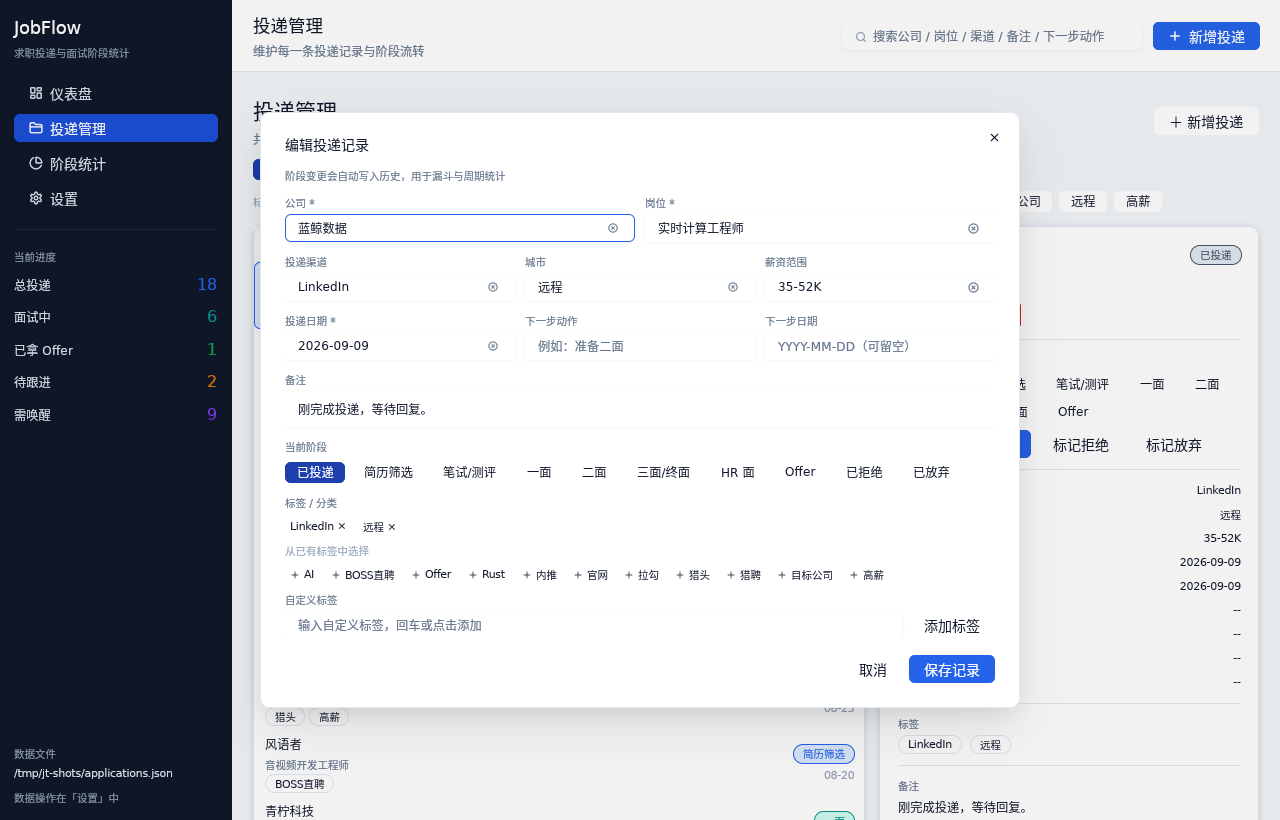
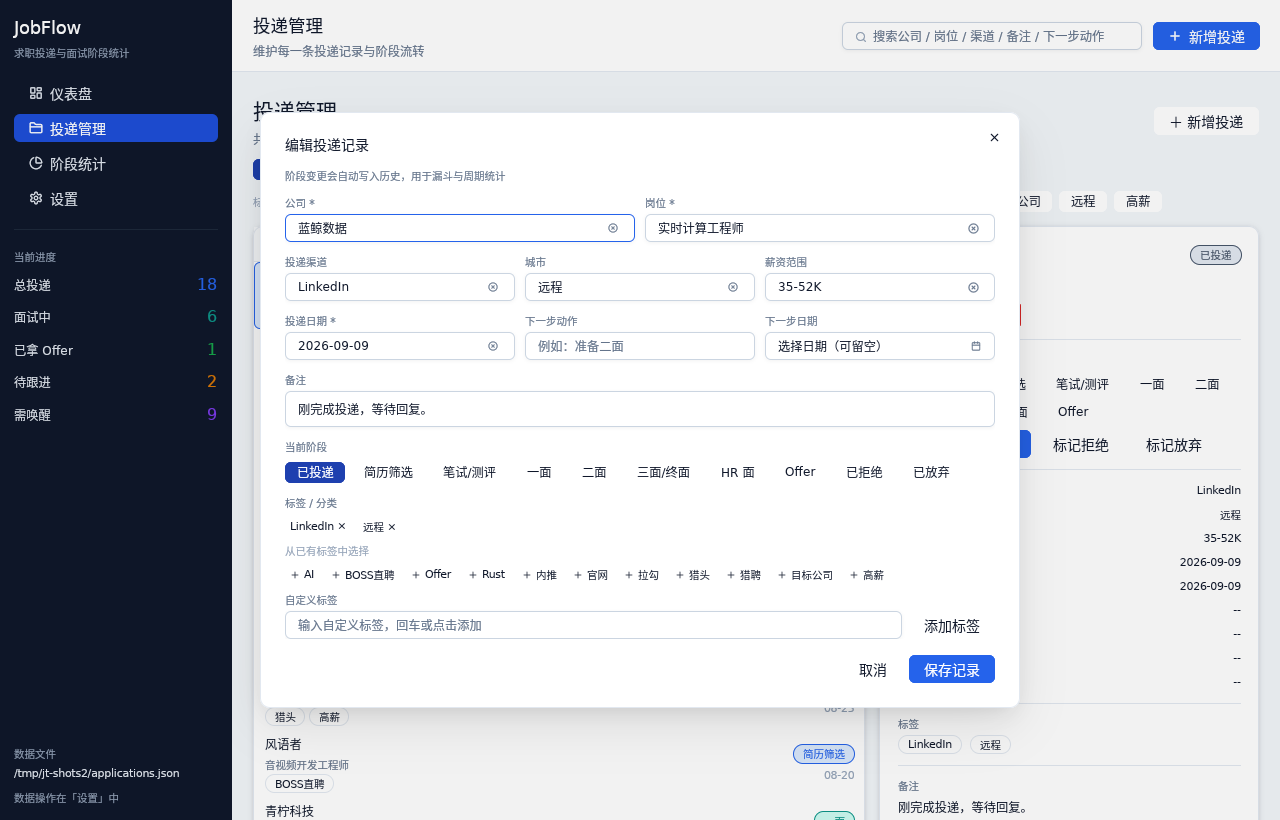
feat(form): 投递日期/下一步日期改为日历选择
- 使用组件库 DatePicker：中文月份与星期（set_locale("zh-CN")），
  点击弹出日历，投递日期只能选到今天及以前（未来日期在日历中禁用），
  下一步日期可留空、可选未来；选中的日期直接落到 NaiveDate，不再手输
- 移除 model::parse_date / parse_optional_date（不再需要文本日期解析）
- 修复输入框边框不可见：组件库把 theme.input 当边框色用，之前错误映射成
  白色，现映射为 border_strong
- 同步更新 README、CHANGELOG 与界面截图（新增 form-date.png 日历截图）

版本号提到 0.2.3。

Changed region(s): [[0.5938, 0.3963, 0.7188, 0.4268], [0.0625, 0.9146, 0.125, 0.9451], [0.75, 0.3963, 0.7812, 0.4268]]

diff --git a/src/ui/app.rs b/src/ui/app.rs
@@ -10,6 +10,8 @@ use gpui::{
 use gpui_component::{
     Icon, IconName, Sizable as _,
     button::{Button, ButtonVariants as _},
+    calendar::{Date, Matcher},
+    date_picker::{DatePicker, DatePickerState},
     dialog::DialogButtonProps,
     input::{Input, InputEvent, InputState},
     notification::Notification,
@@ -90,9 +92,11 @@ pub struct FormState {
     pub channel: Entity<InputState>,
     pub location: Entity<InputState>,
     pub salary: Entity<InputState>,
-    pub applied_at: Entity<InputState>,
+    /// 投递日期用日历选择（只能选到今天及以前）。
+    pub applied_at: Entity<DatePickerState>,
     pub next_action: Entity<InputState>,
-    pub next_action_at: Entity<InputState>,
+    /// 下一步日期用日历选择（可留空、可选未来）。
+    pub next_action_at: Entity<DatePickerState>,
     pub notes: Entity<InputState>,
     pub tag_input: Entity<InputState>,
     pub tags: Vec<String>,
@@ -120,17 +124,41 @@ fn new_input(window: &mut Window, cx: &mut App, placeholder: &str) -> Entity<Inp
     cx.new(|cx| InputState::new(window, cx).placeholder(placeholder))
 }
 
+/// 建一个日历选择器。
+///
+/// `no_future` 为真时，未来的日期在日历里不可选（投递日期不允许晚于今天）；
+/// `with_default` 为真时默认选中今天，否则留空。
+fn new_date_picker(
+    window: &mut Window,
+    cx: &mut App,
+    default: Option<NaiveDate>,
+    no_future: bool,
+) -> Entity<DatePickerState> {
+    cx.new(move |cx| {
+        let mut state = DatePickerState::new(window, cx).date_format(model::DATE_FORMAT);
+        if no_future {
+            let today = model::today();
+            state = state.disabled_matcher(Matcher::custom(move |date| *date > today));
+        }
+        if let Some(date) = default {
+            state.set_date(date, window, cx);
+        }
+        state
+    })
+}
+
 impl FormState {
     pub fn new(window: &mut Window, cx: &mut App) -> Self {
+        let today = model::today();
         Self {
             company: new_input(window, cx, "例如：星海科技"),
             position: new_input(window, cx, "例如：Rust 后端工程师"),
             channel: new_input(window, cx, "BOSS直聘 / 内推 / 官网 ..."),
             location: new_input(window, cx, "例如：上海"),
             salary: new_input(window, cx, "例如：30-45K"),
-            applied_at: new_input(window, cx, "YYYY-MM-DD"),
+            applied_at: new_date_picker(window, cx, Some(today), true),
             next_action: new_input(window, cx, "例如：准备二面"),
-            next_action_at: new_input(window, cx, "YYYY-MM-DD（可留空）"),
+            next_action_at: new_date_picker(window, cx, None, false),
             notes: cx.new(|cx| {
                 InputState::new(window, cx)
                     .placeholder("备注：面试反馈、联系人、薪资细节 ...")
@@ -151,43 +179,45 @@ impl FormState {
             &self.channel,
             &self.location,
             &self.salary,
-            &self.applied_at,
             &self.next_action,
-            &self.next_action_at,
             &self.notes,
             &self.tag_input,
         ] {
             input.update(cx, |input, cx| input.set_value("", window, cx));
         }
-        self.applied_at.update(cx, |input, cx| {
-            input.set_value(model::today().to_string(), window, cx)
-        });
+        self.applied_at
+            .update(cx, |state, cx| state.set_date(model::today(), window, cx));
+        self.next_action_at
+            .update(cx, |state, cx| state.set_date(Date::Single(None), window, cx));
         self.tags.clear();
         self.stage = Stage::Applied;
     }
 
     /// 载入一条已有记录，准备编辑。
     pub fn load(&mut self, application: &JobApplication, window: &mut Window, cx: &mut App) {
-        let pairs: [(&Entity<InputState>, String); 9] = [
+        let pairs: [(&Entity<InputState>, String); 7] = [
             (&self.company, application.company.clone()),
             (&self.position, application.position.clone()),
             (&self.channel, application.channel.clone()),
             (&self.location, application.location.clone()),
             (&self.salary, application.salary.clone()),
-            (&self.applied_at, application.applied_at.to_string()),
             (&self.next_action, application.next_action.clone()),
-            (
-                &self.next_action_at,
-                application
-                    .next_action_at
-                    .map(|date| date.to_string())
-                    .unwrap_or_default(),
-            ),
             (&self.notes, application.notes.clone()),
         ];
         for (input, value) in pairs {
             input.update(cx, |input, cx| input.set_value(value, window, cx));
         }
+        let applied_at = application.applied_at;
+        self.applied_at
+            .update(cx, |state, cx| state.set_date(applied_at, window, cx));
+        let next_action_at = application.next_action_at;
+        self.next_action_at.update(cx, |state, cx| {
+            state.set_date(
+                next_action_at.map_or(Date::Single(None), |date| Date::Single(Some(date))),
+                window,
+                cx,
+            )
+        });
         self.tags = application.tags.clone();
         self.tag_input
             .update(cx, |input, cx| input.set_value("", window, cx));
@@ -204,8 +234,15 @@ impl FormState {
         if position.is_empty() {
             return Err("岗位名称不能为空".to_string());
         }
-        let applied_at = model::parse_date(&self.applied_at.read(cx).value())?;
-        let next_action_at = model::parse_optional_date(&self.next_action_at.read(cx).value())?;
+        // 日期来自日历选择器，这里只做「有没有选」的判断。
+        let applied_at = match self.applied_at.read(cx).date() {
+            Date::Single(Some(date)) => date,
+            _ => return Err("请选择投递日期".to_string()),
+        };
+        let next_action_at = match self.next_action_at.read(cx).date() {
+            Date::Single(Some(date)) => Some(date),
+            _ => None,
+        };
         // 投递日期晚于今天会让“最近 30 天 / 月度趋势”等口径对不上，这里直接拦下。
         let today = model::today();
         if applied_at > today {
@@ -1078,6 +1115,29 @@ impl RootView {
             .child(Input::new(&input).cleanable(true))
     }
 
+    /// 表单里的日期字段：点击弹出日历选择，不需要手输日期。
+    fn date_field(&self, label: &str, state: Entity<DatePickerState>, placeholder: &str) -> Div {
+        let placeholder = placeholder.to_string();
+        div()
+            .flex()
+            .flex_col()
+            .gap_1()
+            .flex_1()
+            .min_w(px(0.))
+            .child(
+                div()
+                    .text_xs()
+                    .font_weight(FontWeight::MEDIUM)
+                    .text_color(theme::muted())
+                    .child(label.to_string()),
+            )
+            .child(
+                DatePicker::new(&state)
+                    .placeholder(placeholder)
+                    .cleanable(true),
+            )
+    }
+
     /// 表单内容（作为组件库 Dialog 的主体渲染）。
     ///
     /// Dialog 的构建闭包只能拿到 `&App`，所以这里的交互回调统一用
@@ -1119,9 +1179,17 @@ impl RootView {
                     .flex()
                     .flex_row()
                     .gap_3()
-                    .child(self.form_field("投递日期 *", self.form.applied_at.clone()))
+                    .child(self.date_field(
+                        "投递日期 *",
+                        self.form.applied_at.clone(),
+                        "选择投递日期",
+                    ))
                     .child(self.form_field("下一步动作", self.form.next_action.clone()))
-                    .child(self.form_field("下一步日期", self.form.next_action_at.clone())),
+                    .child(self.date_field(
+                        "下一步日期",
+                        self.form.next_action_at.clone(),
+                        "选择日期（可留空）",
+                    )),
             )
             .child(self.form_field("备注", self.form.notes.clone()))
             .child(

diff --git a/src/model.rs b/src/model.rs
@@ -514,26 +514,6 @@ pub fn today() -> NaiveDate {
     chrono::Local::now().date_naive()
 }
 
-/// 解析 YYYY-MM-DD 日期。
-pub fn parse_date(text: &str) -> Result<NaiveDate, String> {
-    let text = text.trim();
-    if text.is_empty() {
-        return Err("日期不能为空".to_string());
-    }
-    NaiveDate::parse_from_str(text, DATE_FORMAT)
-        .map_err(|_| format!("日期格式应为 YYYY-MM-DD：{text}"))
-}
-
-/// 解析可选日期；空字符串返回 None。
-pub fn parse_optional_date(text: &str) -> Result<Option<NaiveDate>, String> {
-    let text = text.trim();
-    if text.is_empty() {
-        Ok(None)
-    } else {
-        parse_date(text).map(Some)
-    }
-}
-
 /// 月份键，例如 2026-09。
 pub fn month_key(date: NaiveDate) -> String {
     format!("{:04}-{:02}", date.year(), date.month())

diff --git a/src/main.rs b/src/main.rs
@@ -100,6 +100,8 @@ fn run_gui() {
         // 组件库的图标是 SVG，需要注册 AssetSource 才能渲染。
         .with_assets(gpui_component_assets::Assets)
         .run(|cx: &mut App| {
+        // 组件库自带的界面文案（日历的星期/月份、日期选择器等）用中文。
+        gpui_component::set_locale("zh-CN");
         // 组件库初始化：主题、组件全局状态与默认快捷键。
         gpui_component::init(cx);
         // 把本项目配色灌进组件库主题，避免两套皮肤混用。

diff --git a/src/ui/theme.rs b/src/ui/theme.rs
@@ -197,7 +197,9 @@ pub fn install_component_theme(cx: &mut App) {
     c.background = panel();
     c.foreground = text();
     c.border = border();
-    c.input = panel();
+    // 组件库把 theme.input 当作「输入框边框色」用（文本输入、日期选择器、
+    // 下拉框、勾选框都是），所以这里给边框色而不是背景色。
+    c.input = border_strong();
     c.caret = text();
     c.ring = accent();
     c.selection = accent_soft();

diff --git a/README.md b/README.md
@@ -11,6 +11,8 @@
 ### 1. 投递管理
 
 - 记录公司、岗位、投递渠道、城市、薪资范围、投递日期、备注、下一步动作与日期。
+- **投递日期 / 下一步日期用日历选择**（组件库 `DatePicker`，中文月份与星期）；
+  投递日期只能选到今天及以前，下一步日期可以留空、也可以选未来。
 - 阶段流转：已投递 → 简历筛选 → 笔试/测评 → 一面 → 二面 → 三面/终面 → HR 面 → Offer。
 - 支持终止状态：已拒绝、已放弃；终止后仍保留此前到达过的阶段历史。
 - 每次阶段变更都会写入历史事件，用于精确计算“到达过哪些阶段”和周期天数。
@@ -79,6 +81,7 @@
 | 投递管理 | [applications.png](docs/screenshots/applications.png) |
 | 阶段统计 | [analytics.png](docs/screenshots/analytics.png) |
 | 新增投递（gpui-component 对话框） | [form.png](docs/screenshots/form.png) |
+| 投递日期日历选择 | [form-date.png](docs/screenshots/form-date.png) |
 | 编辑投递（含标签与阶段选择） | [form-tags.png](docs/screenshots/form-tags.png) |
 | 设置（数据管理、数据体检、快捷键） | [settings.png](docs/screenshots/settings.png) |
 

diff --git a/CHANGELOG.md b/CHANGELOG.md
@@ -2,6 +2,20 @@
 
 本项目遵循[语义化版本](https://semver.org/lang/zh-CN/)，1.0 之前次版本号可能包含不兼容变更。
 
+## [0.2.3] - 2026-09-10
+
+### 新增
+
+- **投递日期 / 下一步日期改为日历选择**：使用组件库的 `DatePicker`（中文月份与星期），
+  投递日期只能选到今天及以前（未来日期在日历里禁用），下一步日期可留空、可选未来。
+  日期不再需要手输，因此移除了 `model::parse_date` / `parse_optional_date` 两个文本解析函数。
+
+### 修复
+
+- 输入框边框不可见：组件库把 `theme.input` 当边框色用，之前被错误映射成白色，
+  现在映射为 `border_strong`（文本输入、日期选择器、下拉框统一生效）。
+- 组件库界面文案跟随系统语言设为中文（`gpui_component::set_locale("zh-CN")`）。
+
 ## [0.2.2] - 2026-09-10
 
 ### 修复
